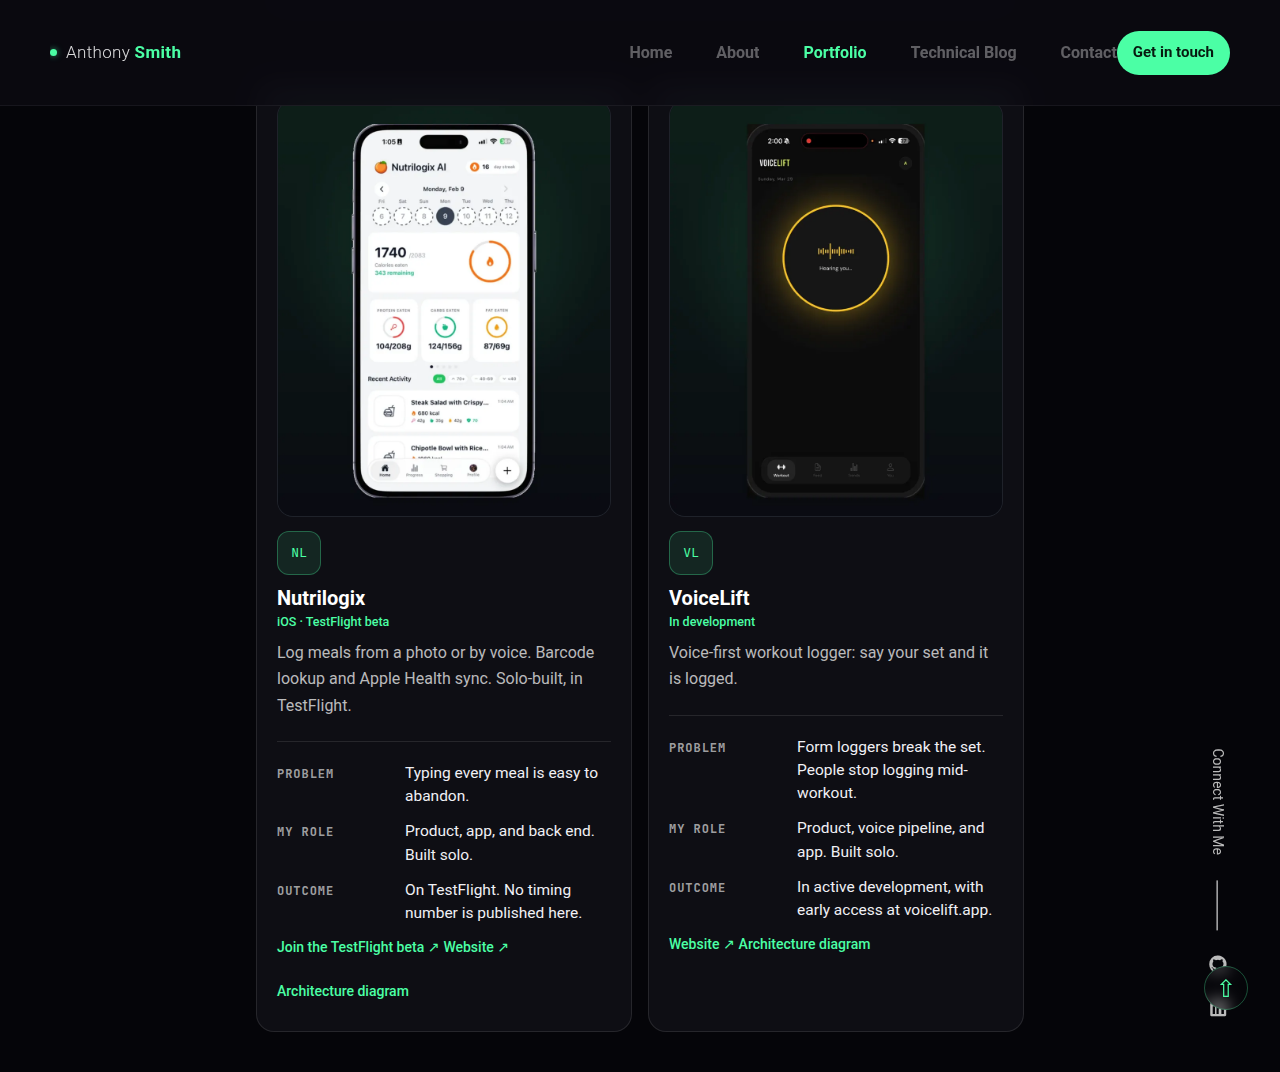
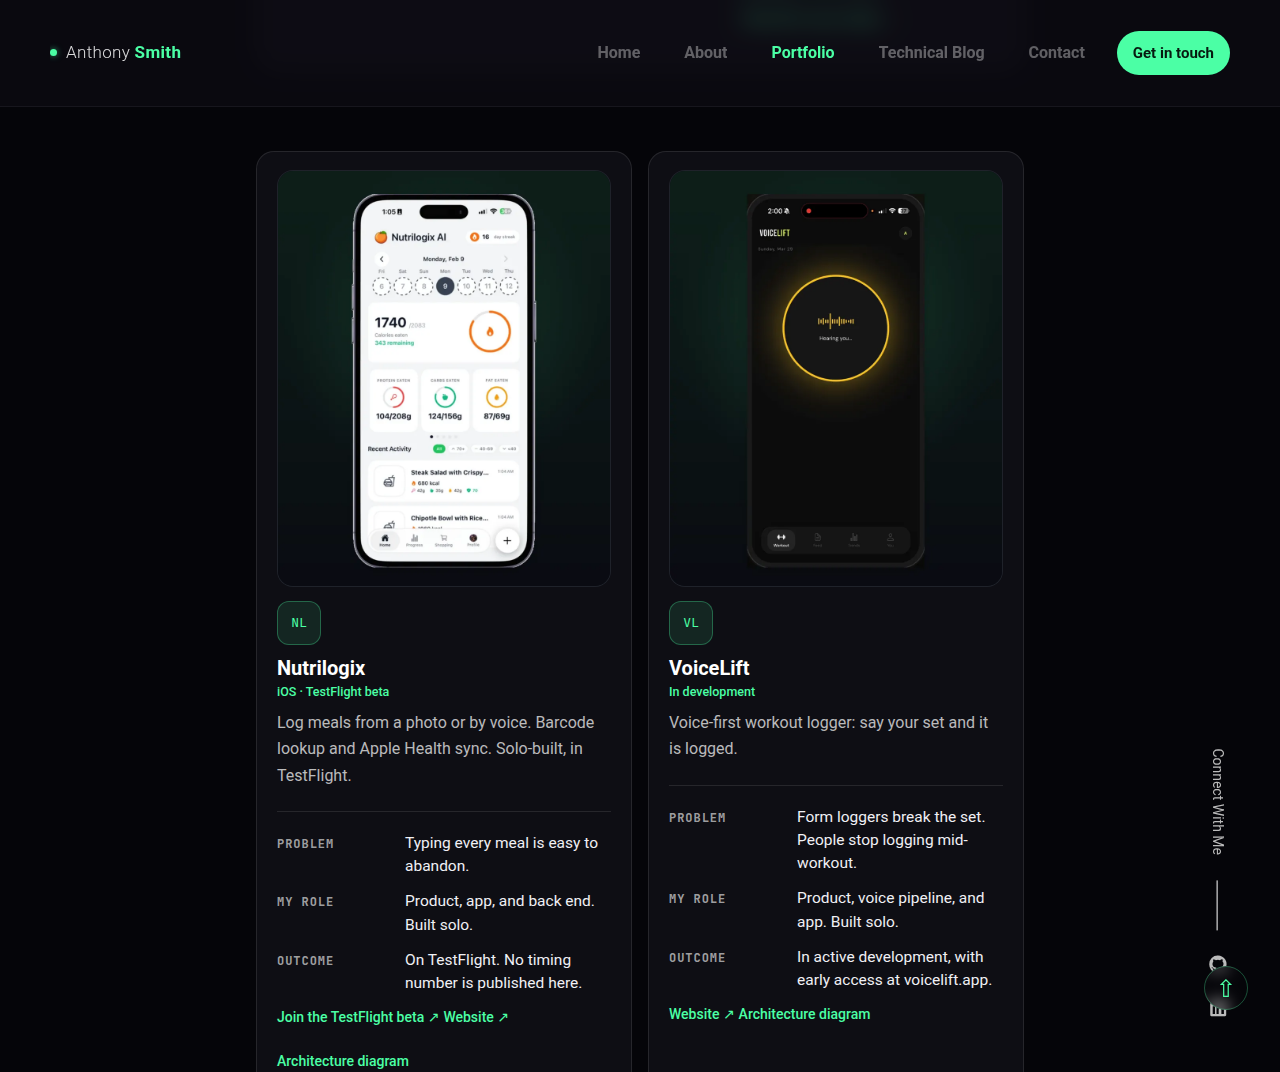
Keep the desktop nav clear of the Get in touch button.
The header row is a flex line with a 32px gap before the button, so Contact no longer sits against it.

diff --git a/css/review-fixes.css b/css/review-fixes.css
@@ -539,18 +539,30 @@ body.hero-themed .header .logo a {
 	body.hero-themed .header .head-top {
 		display: flex;
 		align-items: center;
+		gap: 32px;
 	}
 	body.hero-themed .header .logo {
 		position: relative;
 		top: auto;
+		left: auto;
 		transform: none;
+		flex: none;
 	}
 	body.hero-themed .header .top-menu {
+		position: static;
 		margin-left: auto;
+		margin-right: 0;
 		display: flex;
 		align-items: center;
 		justify-content: flex-end;
+		flex: 0 1 auto;
+		min-width: 0;
 		gap: 18px;
+	}
+	body.hero-themed .header .header-touch {
+		position: static;
+		margin: 0;
+		flex: none;
 	}
 	body.hero-themed .header .menu-btn {
 		display: none;
